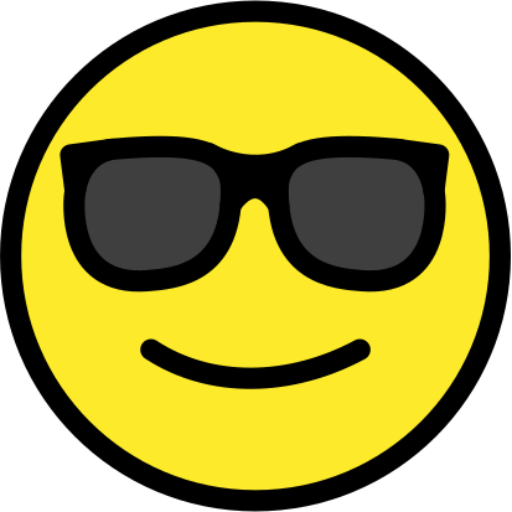
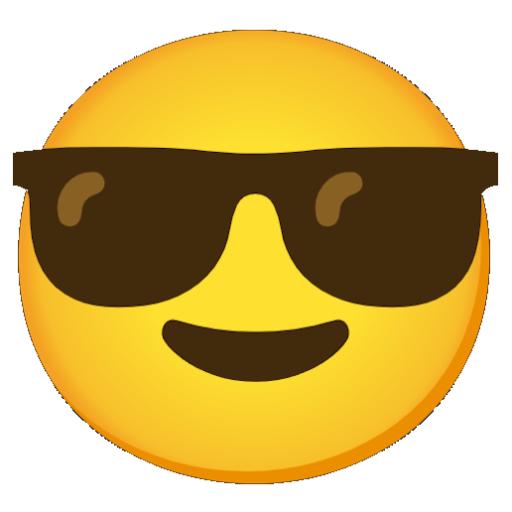
Use custom emojis (#26)

diff --git a/src/routes/home/Home.tsx b/src/routes/home/Home.tsx
@@ -3,6 +3,7 @@ import profile2023 from "../../assets/2023-07-20 profile.png";
 import wynonnaRaincoat from "../../assets/2024-04-29 Wynonna rain coat outside.jpg";
 import { useNavigate } from "react-router-dom";
 import useAppStyles from "../../App.styles";
+import { Emoji } from "../../components/Emoji";
 
 const useHomeStyles = makeStyles({
   card: {
@@ -52,22 +53,20 @@ const Home = (): JSX.Element => {
           corner of the internet. I'll let you know when there's more to see :)`}
         </p>
         <p>
-          {`(P.S. I'm the human in the above photos. The cute dog is Wynonna, 
-          my Australian shepherd 🥰)`}
+          {`P.S. I'm the human in the above photos. The cute dog is Wynonna, 
+          my Australian shepherd `}
+          <Emoji emoji="🥰" />
         </p>
         <p>
-          {`"Smiling face with sunglasses" graphic designed by `}
-          <Link href="https://openmoji.org" target="_blank" rel="noreferrer">
-            OpenMoji
-          </Link>{" "}
-          – the open-source emoji and icon project.{" "}
+          {`(Emojis rendered in `}
           <Link
-            href="https://creativecommons.org/licenses/by-sa/4.0"
+            href="https://fonts.google.com/noto/specimen/Noto+Color+Emoji"
             target="_blank"
             rel="noreferrer"
           >
-            License: CC BY-SA 4.0
+            Noto Color Emoji
           </Link>
+          {`)`}
         </p>
         <div
           style={{

diff --git a/src/routes/about/About.tsx b/src/routes/about/About.tsx
@@ -10,6 +10,7 @@ import {
 } from "@fluentui/react-components";
 import { useNavigate } from "react-router-dom";
 import useAppStyles from "../../App.styles";
+import { Emoji } from "../../components/Emoji";
 
 const useAboutStyles = makeStyles({
   article: {
@@ -183,7 +184,7 @@ const About = (): JSX.Element => {
       ></img>
       <p>
         I like this shirt because it&apos;s full of equal signs. It covers my
-        love of math and social justice! 🤓
+        love of math and social justice! <Emoji emoji="🤓" />
       </p>
       <hr />
       <p>

diff --git a/index.html b/index.html
@@ -34,6 +34,13 @@
         }
       })(window.location);
     </script>
+    <!-- Custom emoji font: Noto Color Emoji -->
+    <link rel="preconnect" href="https://fonts.googleapis.com" />
+    <link rel="preconnect" href="https://fonts.gstatic.com" crossorigin />
+    <link
+      href="https://fonts.googleapis.com/css2?family=Noto+Color+Emoji&display=swap"
+      rel="stylesheet"
+    />
   </head>
   <body>
     <div id="root"></div>

diff --git a/src/App.tsx b/src/App.tsx
@@ -1,6 +1,6 @@
 import { FluentProvider, webDarkTheme } from "@fluentui/react-components";
 import { createBrowserRouter, RouterProvider } from "react-router-dom";
-import ErrorPage from "./ErrorPage";
+import ErrorPage from "./components/ErrorPage";
 import About from "./routes/about/About";
 import Breakout from "./routes/games/breakout/Breakout";
 import Home from "./routes/home/Home";

diff --git a/src/components/Emoji.tsx b/src/components/Emoji.tsx
@@ -1,0 +1,14 @@
+/** Render a single emoji in a consistent font on any device */
+export const Emoji = (props: { emoji: string }): JSX.Element => {
+  return (
+    <span
+      style={{
+        fontFamily: "Noto Color Emoji, sans-serif",
+        fontWeight: 400,
+        fontStyle: "normal",
+      }}
+    >
+      {props.emoji}
+    </span>
+  );
+};
